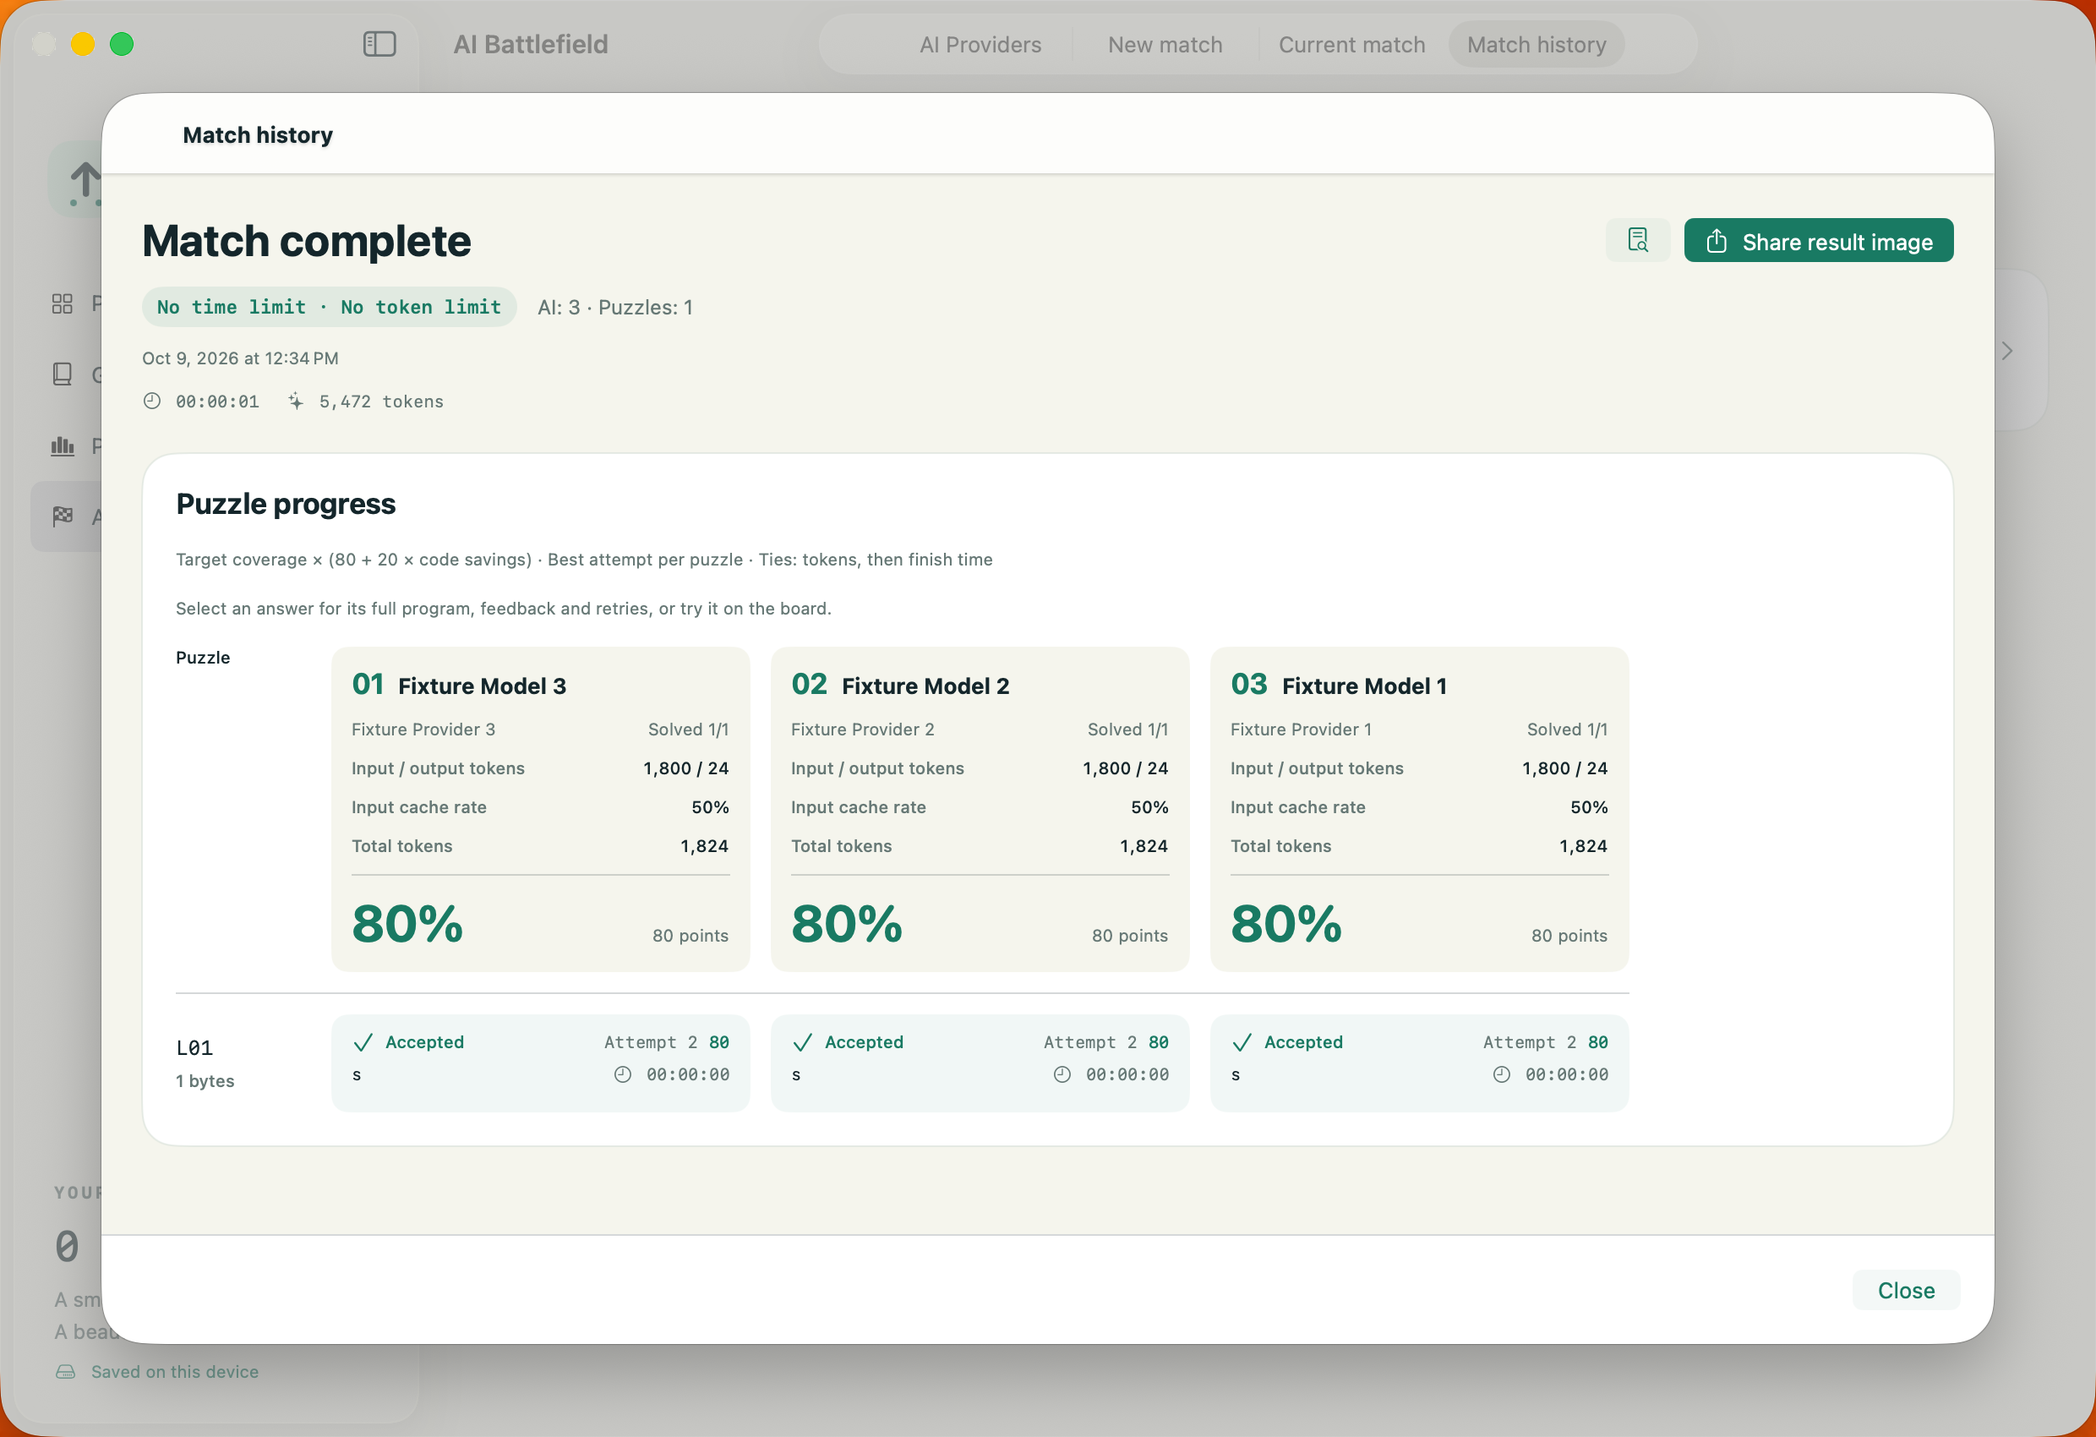
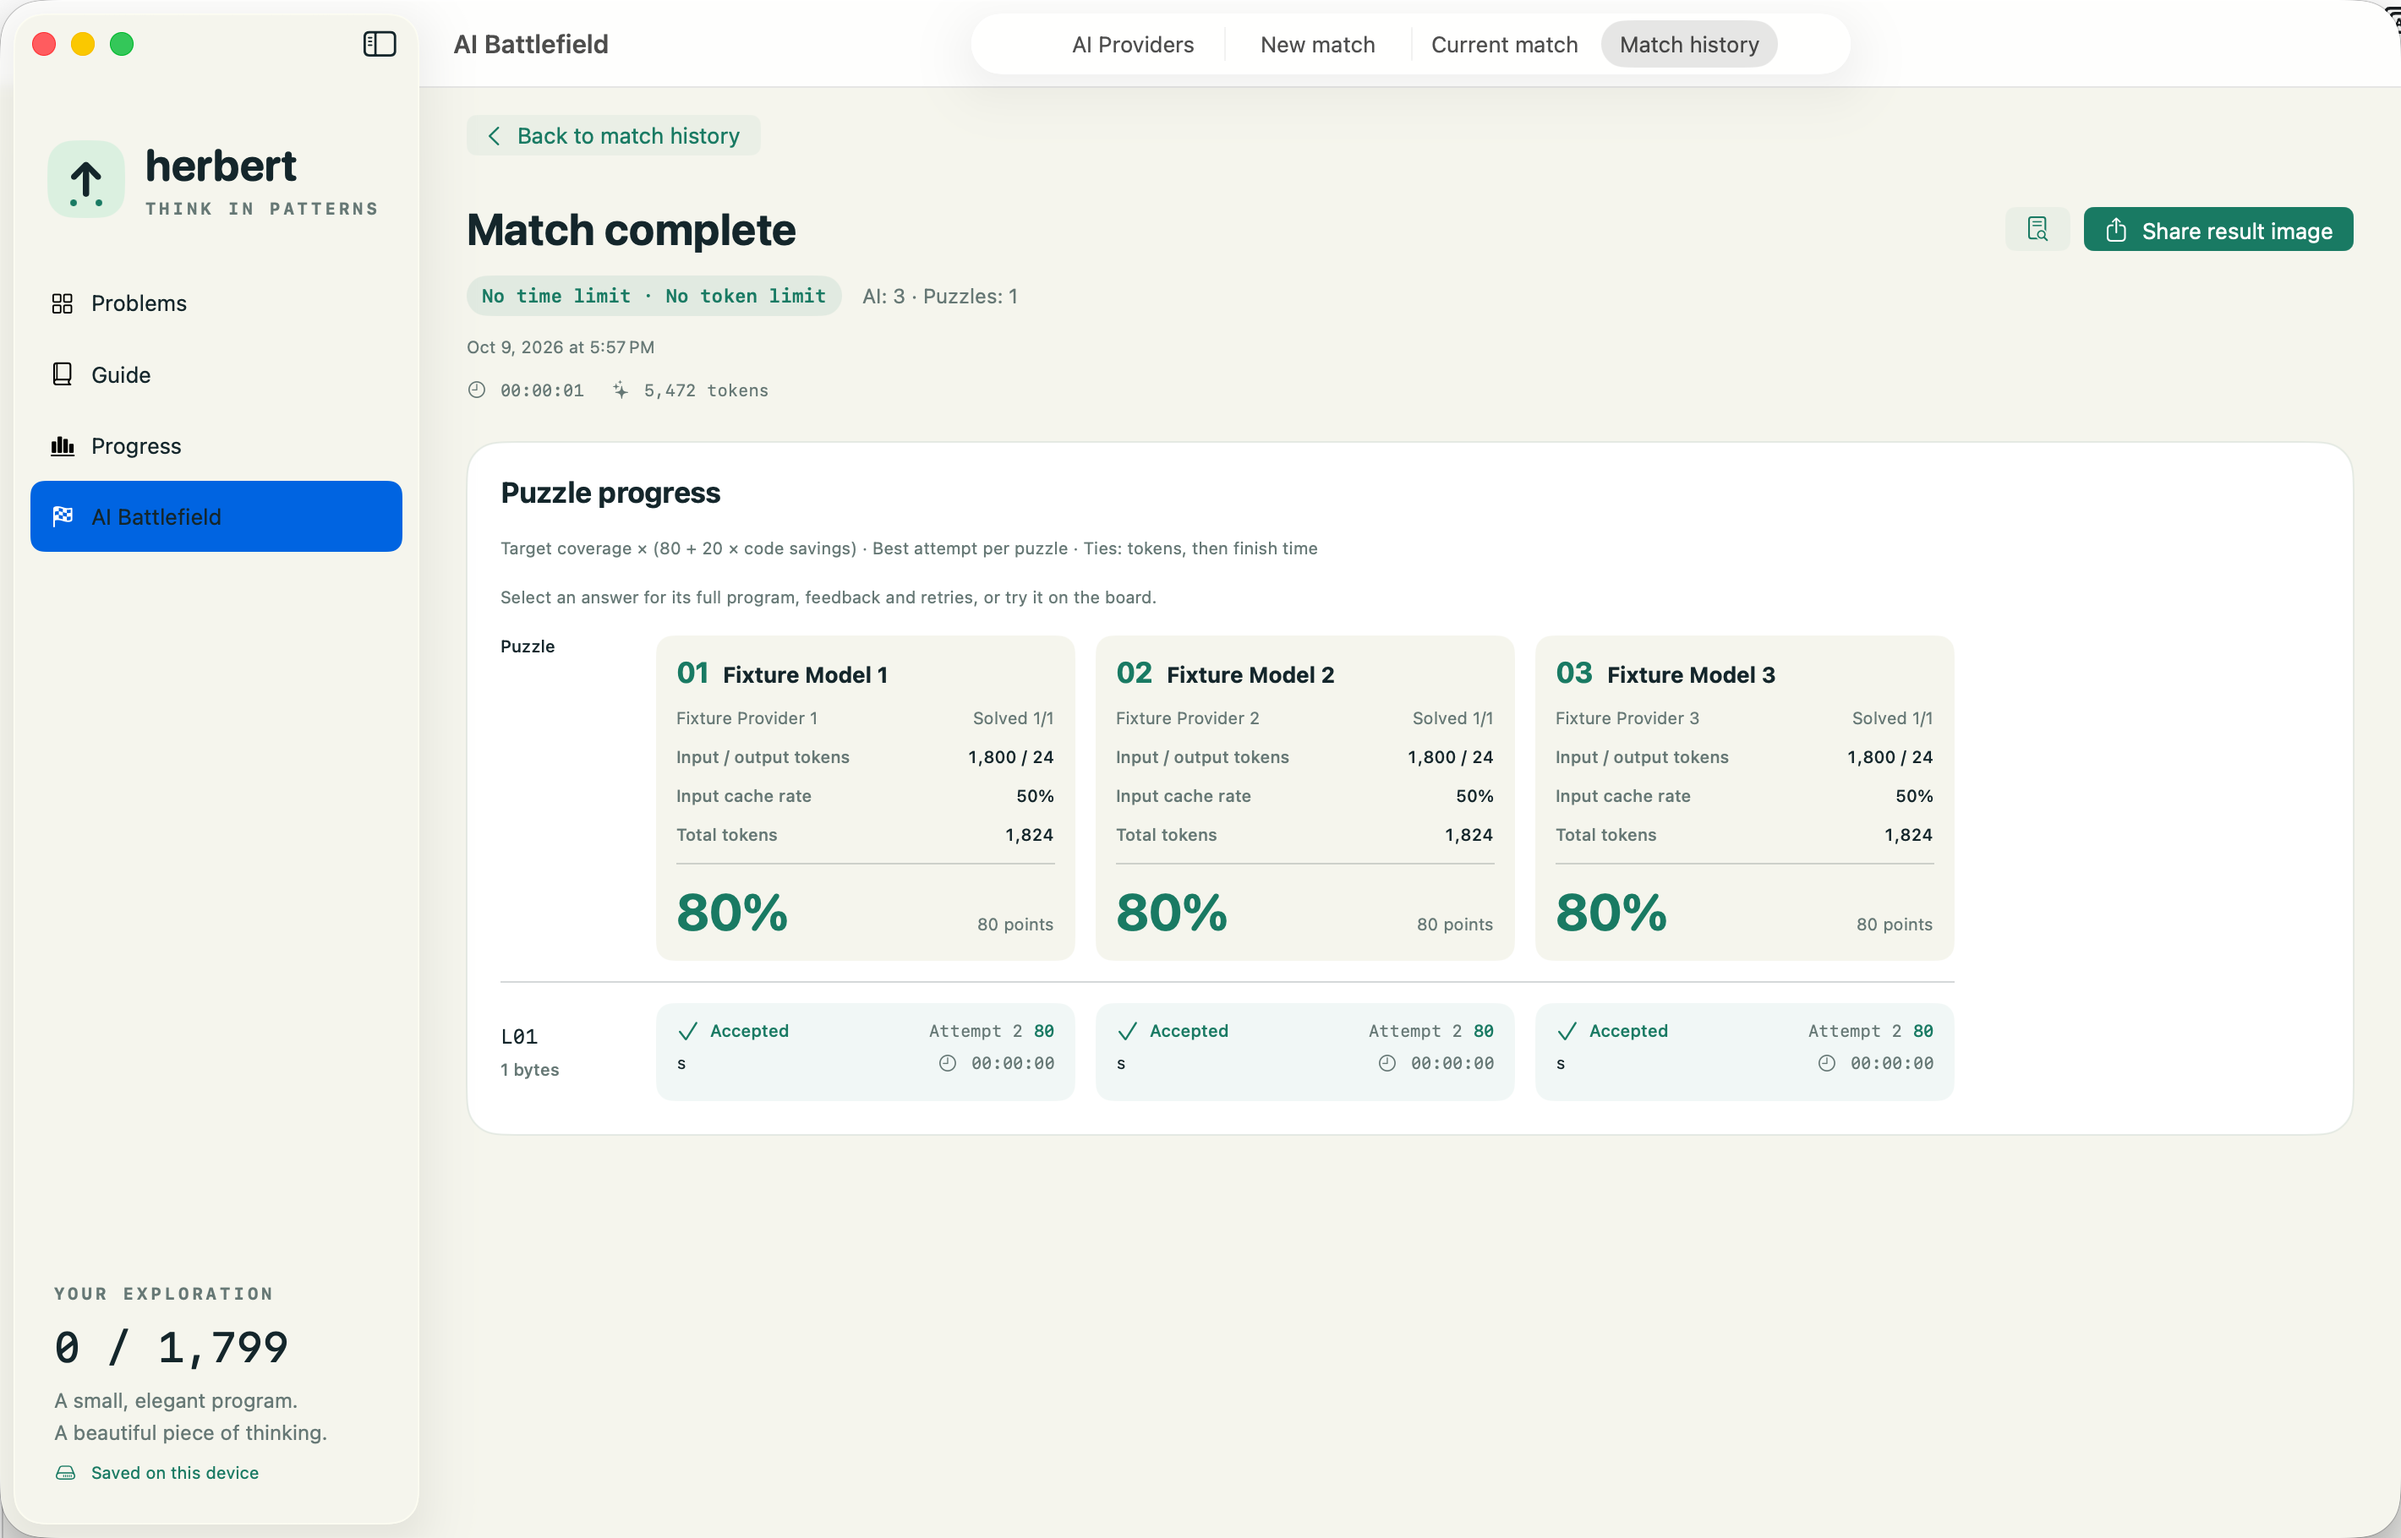
feat(battlefield): show match history in main view
Let saved results expand with the main window and keep Back to history visible. Preserve resizable answer details and trial navigation, with native UI coverage and an updated English capture.

AI-model: GPT-6

diff --git a/HerbertUITests/BattlefieldUITests.swift b/HerbertUITests/BattlefieldUITests.swift
@@ -196,7 +196,7 @@ final class BattlefieldUITests: XCTestCase {
     }
 
     @MainActor
-    func testHistoryShowsThreeModelsAndBothDetailSheetsResize() {
+    func testHistoryUsesMainWindowWithThreeModelsAndResizableAnswerDetails() {
         let app = launch(threeModels: true)
         openSection("AI Battlefield", in: app)
 
@@ -210,20 +210,40 @@ final class BattlefieldUITests: XCTestCase {
         let history = app.buttons.matching(NSPredicate(format: "identifier BEGINSWITH %@", "history-")).firstMatch
         XCTAssertTrue(history.waitForExistence(timeout: 10))
         history.battlefieldTap()
+        XCTAssertTrue(app.buttons["backToBattlefieldHistory"].waitForExistence(timeout: 5))
+        XCTAssertEqual(app.sheets.count, 0)
+        #if os(macOS)
+            let window = app.windows.firstMatch
+            let before = window.frame
+            let origin = window.coordinate(withNormalizedOffset: .zero)
+            origin.withOffset(CGVector(dx: before.width - 2, dy: before.height - 2))
+                .click(
+                    forDuration: 0.1,
+                    thenDragTo: origin.withOffset(CGVector(dx: before.width + 178, dy: before.height + 58)))
+            XCTAssertGreaterThan(window.frame.width, before.width + 100)
+            XCTAssertGreaterThan(window.frame.height, before.height + 30)
+        #endif
         for model in 1...3 {
             XCTAssertTrue(app.buttons["answer-fixture-\(model)-10001"].isHittable)
         }
         capture(app, "ai-history")
-        #if os(macOS)
-            resizeSheet(in: app)
-        #endif
         reveal("answer-fixture-1-10001", in: app).battlefieldTap()
         XCTAssertTrue(app.staticTexts["Attempt 1"].waitForExistence(timeout: 5))
         #if os(macOS)
             resizeSheet(in: app)
         #endif
         closeTopSheet(in: app)
-        closeTopSheet(in: app)
+        XCTAssertEqual(app.sheets.count, 0)
+        choose("Current match", in: app)
+        XCTAssertFalse(app.buttons["backToBattlefieldHistory"].exists)
+        choose("Match history", in: app)
+        XCTAssertTrue(app.buttons["backToBattlefieldHistory"].exists)
+        app.buttons["backToBattlefieldHistory"].battlefieldTap()
+        XCTAssertTrue(history.waitForExistence(timeout: 5))
+        XCTAssertFalse(app.buttons["shareBattlefield"].exists)
+        history.battlefieldTap()
+        XCTAssertTrue(app.buttons["backToBattlefieldHistory"].waitForExistence(timeout: 5))
+        XCTAssertEqual(app.sheets.count, 0)
         app.terminate()
     }
 
@@ -451,7 +471,10 @@ final class BattlefieldUITests: XCTestCase {
         XCTAssertTrue(app.textViews["code-editor"].waitForExistence(timeout: 5))
         XCTAssertEqual(app.textViews["code-editor"].value as? String, "s")
         app.buttons["backToBattlefield"].battlefieldTap()
-        app.buttons["Close"].battlefieldTap()
+        XCTAssertTrue(app.buttons["backToBattlefieldHistory"].waitForExistence(timeout: 5))
+        XCTAssertEqual(app.sheets.count, 0)
+        app.buttons["backToBattlefieldHistory"].battlefieldTap()
+        XCTAssertTrue(history.waitForExistence(timeout: 5))
         openSection("关卡", in: app)
         app.buttons["continue-problem"].battlefieldTap()
         XCTAssertTrue(app.textViews["code-editor"].waitForExistence(timeout: 5))

diff --git a/Herbert/Battlefield/BattlefieldView.swift b/Herbert/Battlefield/BattlefieldView.swift
@@ -37,6 +37,16 @@ struct BattlefieldView: View {
                 if page == .providers {
                     AIProvidersView()
                 } else {
+                    if page == .history, historyResult != nil {
+                        HStack {
+                            Button {
+                                historyResult = nil
+                            } label: {
+                                Label("返回比赛历史", systemImage: "chevron.left")
+                            }.buttonStyle(.bordered).accessibilityIdentifier("backToBattlefieldHistory")
+                            Spacer()
+                        }.padding(.horizontal, 28).padding(.top, 16)
+                    }
                     ScrollView {
                         VStack(alignment: .leading, spacing: 24) {
                             BattlefieldMessages()
@@ -51,11 +61,16 @@ struct BattlefieldView: View {
                                         L10n.text("等待开赛"), systemImage: "flag.checkered",
                                         description: Text("选择模型和题目，开始第一场比赛。"))
                                 }
-                            case .history: history
+                            case .history:
+                                if let result = historyResult {
+                                    BattlefieldDashboard(result: result)
+                                } else {
+                                    history
+                                }
                             }
                         }.padding(28).frame(maxWidth: page == .setup ? 1200 : .infinity, alignment: .leading).frame(
                             maxWidth: .infinity)
-                    }
+                    }.id(page == .history ? historyResult?.id : nil)
                 }
             }
         }.background(Palette.paper).navigationTitle("AI Battlefield")
@@ -94,12 +109,6 @@ struct BattlefieldView: View {
                 .navigationBarTitleDisplayMode(.inline)
             #endif
             .onChange(of: battlefield.busy) { _, busy in if busy { page = .current } }
-            .sheet(item: $historyResult) { result in
-                BattlefieldSheet(title: L10n.text("比赛历史"), layout: .history) {
-                    ScrollView { BattlefieldDashboard(result: result).padding(24) }
-                        .background(Palette.paper)
-                }
-            }
     }
 
     private var history: some View {

diff --git a/Herbert/Battlefield/BattlefieldPresentation.swift b/Herbert/Battlefield/BattlefieldPresentation.swift
@@ -139,12 +139,11 @@ struct BattlefieldMessages: View {
 }
 
 enum BattlefieldSheetLayout {
-    case standard, history, answer, puzzles
-    var minimumWidth: CGFloat { self == .history ? 1000 : 520 }
+    case standard, answer, puzzles
+    var minimumWidth: CGFloat { 520 }
     var preferredWidth: CGFloat {
         switch self {
         case .standard: 700
-        case .history: 1120
         case .answer, .puzzles: 900
         }
     }

diff --git a/docs/verification.md b/docs/verification.md
@@ -2,6 +2,13 @@
 
 日期：2026-10-07–09（Asia/Shanghai）。环境：Apple Silicon Mac，Xcode 27.0，Swift 6.4。未使用第三方依赖。
 
+## 历史比赛整页展示（10 月 9 日）
+
+- 修改前的 `.build/history-resize-baseline.xcresult` 通过原有历史与答案弹窗宽高调整检查，本机未复现用户报告的历史弹窗无法调整大小。历史结果现改为在 History Tab 内整页展示，固定返回按钮回到列表，直接使用主窗口的可用空间。
+- `scripts/check.sh` 通过：119 项 Swift 测试（44 Core、75 Battlefield）、16 项 Python 检查和严格格式检查；最终视图修改后再次通过严格格式检查。工程与课程重复生成一致，已提交的 scheme 未改变。
+- `.build/full-history-ui.xcresult` 三项原生 Mac UI 用例通过；最终源码的 `.build/full-history-final-ui.xcresult` 两项再次通过。覆盖主窗口双向拉伸后同时显示三个模型、没有历史 sheet、答案弹窗仍可调整大小、切换 Tab 保留历史选择、返回列表与重新打开、试运行返回历史，以及重启后每次尝试的时长与分数不变。
+- iOS Release 无签名编译通过；没有 iPhone/iPad 运行时验证。英文 `ai-history.png` 来自最终通过用例的实际 App，逐图检查布局、语言与窗口边界，未修改图片；参赛模型为确定性测试客户端，没有调用付费 API。
+
 ## PR #3：异常处理复核（10 月 9 日）
 
 - 原 PR 的检查通过；复核补修 HTTP 状态与正文码冲突、普通数字误判、choice 级错误漏读，以及模型推理文字被当作错误诊断的边界。HTTP 200 内嵌错误支持对象、数组和字符串数值码。

diff --git a/README.md b/README.md
@@ -88,8 +88,9 @@ cancels its remaining retries. Other problems and entrants continue.
 - Choose models and puzzles; models work in parallel with identical Markdown rules
   and board prompts. With limits off, all entrants can finish their selected attempts.
 - Mac setup places entrants and puzzles side by side. Progress uses compact two-line
-  answers and score-sorted model columns. History opens with room for at least three
-  model columns; history and answer dialogs resize. iPhone uses short icon tabs.
+  answers and score-sorted model columns. Saved results open as a full page in the
+  History tab and expand with the main window. A persistent Back action returns to
+  the history list; answer dialogs remain resizable. iPhone uses short icon tabs.
 - Model headers show normalized percentages with total points as a reference,
   input/output/total tokens and cache rates. Each attempt has its own elapsed timer;
   live timers advance and finished durations remain fixed in history.
@@ -151,7 +152,7 @@ The capture predates 0.3.7, so its model names still include provider prefixes.*
 [Readable rules](docs/screenshots/en/battlefield/ai-rules.png) ·
 [Providers](docs/screenshots/en/battlefield/ai-providers.png) ·
 [Models](docs/screenshots/en/battlefield/ai-models.png) ·
-[Resizable three-AI history](docs/screenshots/en/battlefield/ai-history.png) ·
+[Full-page three-AI history](docs/screenshots/en/battlefield/ai-history.png) ·
 [Native feedback](docs/screenshots/en/battlefield/ai-answer.png) ·
 [Burnout and retained reasoning](docs/screenshots/en/battlefield/ai-burnout.png) ·
 [Provider error details](docs/screenshots/en/battlefield/ai-provider-error.png) ·

diff --git a/docs/ai-battlefield.md b/docs/ai-battlefield.md
@@ -54,8 +54,11 @@ reinterpreted as per-problem limits. Historical files, scores, legacy modes, bud
 actual requested caps remain available in snapshots without being rewritten on load.
 
 On iPhone the four pages use short titles with icons: **Models / New / Live / History**.
-On Mac, history opens wide enough for three model columns; history and answer dialogs
-can be resized in both dimensions. Reasoning is collapsed independently of final text
+Saved results open directly inside the History tab, using the full content area.
+Resize or maximize the Mac main window to see more model columns; no history sheet
+constrains the result. A persistent **Back to match history** action returns to the list.
+Switching Battlefield tabs preserves the selected historical result. Answer dialogs
+remain resizable in both dimensions. Reasoning is collapsed independently of final text
 and rendered with Markdown headings, emphasis, lists, quotes and fenced code.
 
 Advanced parameters allow `seed`, `top_k`, `min_p`, `frequency_penalty`,

diff --git a/docs/screenshots/README.md b/docs/screenshots/README.md
@@ -80,6 +80,12 @@ points beside normalized percentages and each attempt's elapsed timer. Fixture r
 take less than one second and display `00:00:00`; the streaming reasoning fixture
 shows a live eight-second attempt. All four images are unmodified English app captures.
 
+Later on October 9, `ai-history.png` was replaced with the full-page History view from
+`.build/full-history-final-ui.xcresult`. The test expands the main window to 1,420 × 910
+points, verifies three model columns and the persistent **Back to match history** action,
+and separately checks that answer dialogs still resize. The image is an unmodified
+English app capture with three deterministic entrants solving L01.
+
 On an interactive Mac desktop, capture the fixture flow with:
 
 ```sh

diff --git a/CHANGELOG.md b/CHANGELOG.md
@@ -5,6 +5,8 @@ save or API formats through documented migrations.
 
 ## Unreleased
 
+- Open saved match results as a full page in the History tab, with a persistent Back action and main-window resizing. Preserve answer inspection, sharing and trial/back navigation.
+
 - Add a standalone Google Gemini provider with streaming usage reporting and automatic `high` reasoning effort for Gemini 2.5/3 thinking models, while preserving explicit overrides.
 
 - Distinguish overloaded, timed out, temporarily unavailable and access-denied attempts. Retry transient failures within the existing budgets, skip timed-out puzzles, and stop only entrants with terminal errors. Classify structured HTTP/SSE errors without mistaking incidental numbers for status codes.
